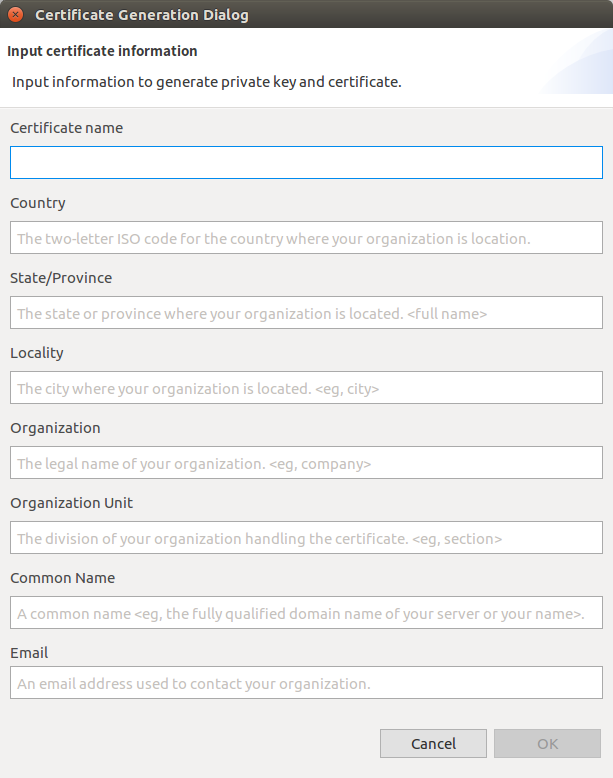
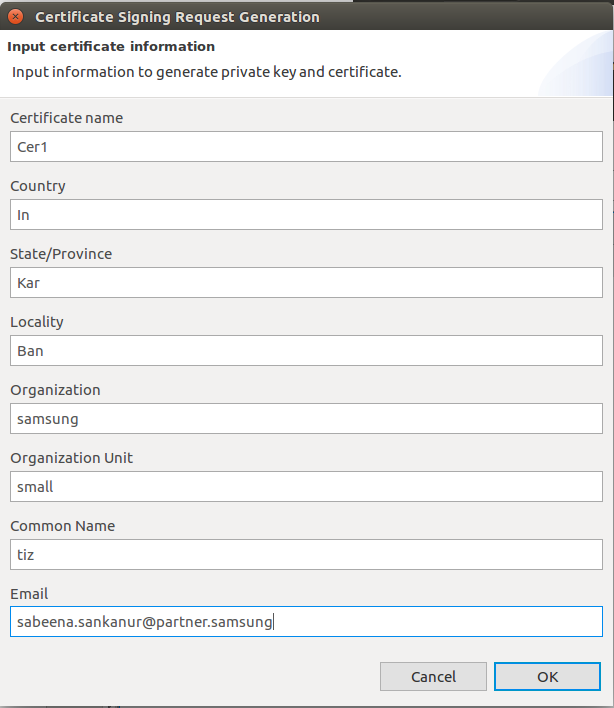
Updating certificate-smartthings.md

diff --git a/docs/application/tizen-studio/rt-ide/smartthings-ext/certificate-smartthings.md b/docs/application/tizen-studio/rt-ide/smartthings-ext/certificate-smartthings.md
@@ -4,13 +4,9 @@
 
 SmartThings&trade; uses OpenSSL for security. To ensure that only trusted developers and manufactures can develop devices that communicate with the SmartThings Cloud, you must get certificates for devices to use the SmartThings&trade; service.
 
-In the Tizen RT IDE, you can perform various certificate-related tasks, such as creation, removal, import, and activation, by using the **SmartThings Certificate Manager**.
+In the Tizen RT IDE, you can perform various certificate-related tasks, such as creation, removal, import, and activation, by using the **IoT Cloud Service** tab.
 
-**Figure: SmartThings Certificate Manager**
-
-![SmartThings Certificate Manager](media/rt_cert_manager.png)
-
-The Certificate Manager is launched automatically if no certificate is set as active when you try to flash a project. To launch the Certificate Manager manually, go to **Tools &gt; ST Certificate Manager** in the Tizen Studio for RT menu.
+The Certificate Manager is launched automatically if no certificate is set as active when you try to flash a project. To launch the Certificate Manager manually, go to **Tools &gt; Certificate Manager** in the Tizen Studio for RT menu.
 
 <a name="create"></a>
 ## Creating a Certificate 
@@ -19,8 +15,13 @@ The process of creating a new certificate requires you to generate a Certificate
 
 To create a new certificate to use the SmartThings&trade; service:
 
-1.  In the SmartThings Certificate Manager, click **New**.
-2. In the Certificate Generation Dialog, enter the required information to generate a certificate and click **OK**:
+1. In the Tizen Certificate Manager, select IoT Cloud Service tab, and click ![plus](media/rt_plus.png).
+
+**Figure: Certificate Manager** 
+	
+![Certificate Manager](media/rt_cer_mang.png)
+
+2. In the Certificate Signing Request Generation Dialog box, enter the required information and click **OK**.
 
     -   **Certificate name**: Unique name for the certificate
     -   **Country**: Two-letter ISO code for the country where your organization is located
@@ -30,32 +31,48 @@ To create a new certificate to use the SmartThings&trade; service:
     -   **Organization Unit**: Division of your organization handling the certificate
     -   **Common Name**: Fully-qualified domain name of your server or your name
     -   **Email**: Email address used to contact your organization
+	
+**Figure: Certificate Signing Request Generation** 
+	
+![Inputting data to the Certificate Signing Request Generation Dialog box](media/rt_cert_create.png)
+	
+3. In the next page of the Certificate Generation Dialog box, enter the required information and click **OK**.
 
-    ![Inputting data to the Certificate Generation Dialog](media/rt_cert_create.png)
+    -   **Device name**: Name of the device
+    -   **Purpose**: Enter the purpose
+    -   **MNID**: ID of the your manufacture
+    -   **UUID**: ID of the user
+    -   **Device Physical Address**: Physical address of the added device
+       	
+**Figure: Certificate Generation** 
+	
+![Inputting data to the Certificate Generation Dialog box](media/rt_cert_gen.png)
+	
+4. Sign in to the Samsung account.
 
-3. Download the certificate file and enter it in the Certificate Manager:
-
-    -  Log in to the [Developer Workspace](https://devworkspace.developer.samsung.com/smartthingsconsole/iotweb/site/index.html#/main) Web site.
-    -  In your Web browser, select **Common Tools &gt; Certificate Signing Request &gt; Device**.
-    -  In the Certificate Generation Dialog, copy the content of the **CSR (Certificate Signing Request)** field to the clipboard.
-    -  In your Web browser, paste the copied content into the **CSR** field and click **Request**. The certificate is generated in the **Certificate** field.
-    -  Click **Download** and specify a location where the certificate file is saved.
-    -  In the Certificate Generation Dialog, click **Browse**, select the downloaded certificate file, and click **OK**.
-
-    ![Creating a certificate in the Certificate Generation Dialog](media/rt_cert_create_download.png)
-
+ **Figure: Samsung account Sign in** 
+	
+![Account Sign in](media/rt_acco_sig.png)
+	
 <a name="import"></a>
 ## Importing a Certificate 
 
 To import an existing certificate:
-1.  In the SmartThings Certificate Manager, click **Import**.
-2. In the Certificate Import Dialog, enter the required information to import a certificate and click **OK**:
+1. In the Tizen Certificate Manager, click ![Import Certificate](media/rt_import.png).
+
+**Figure: Import Certificate** 
+	
+![Import Certificate](media/rt_import_cer.png)
+
+2. In the Certificate Import Dialog box, enter the required information to import a certificate and click **OK**.
 
     -   **Certificate Name**: Unique name for the certificate
     -   **Private Key**: Private key file in the `.der` format
     -   **Certificate**: Certificate file in the `.pem` format
 
-    ![Certificate Import Dialog](media/rt_cert_import.png)
+**Figure: Certificate Import** 
+
+![Certificate Import Dialog](media/rt_cert_import.png)
 
 <a name="activate"></a>
 ## Activating a Certificate
@@ -64,9 +81,12 @@ To flash a project, you must have an active certificate. The Tizen RT IDE copies
 
 To activate a certificate:
 
-1.  In the SmartThings Certificate Manager, select the certificate you want to activate.
-2.  Click **Set Active**.
+1.  In the Tizen Certificate Manager, double-click the certificate you want to activate.
+2.  Click ![Activation Certificate](media/rt_tick.png).
 
+**Figure: Certificate Activation** 
+
+![Activating Certificate](media/rt_acco_act.png)
 
 ## Related Information
 - Dependencies
